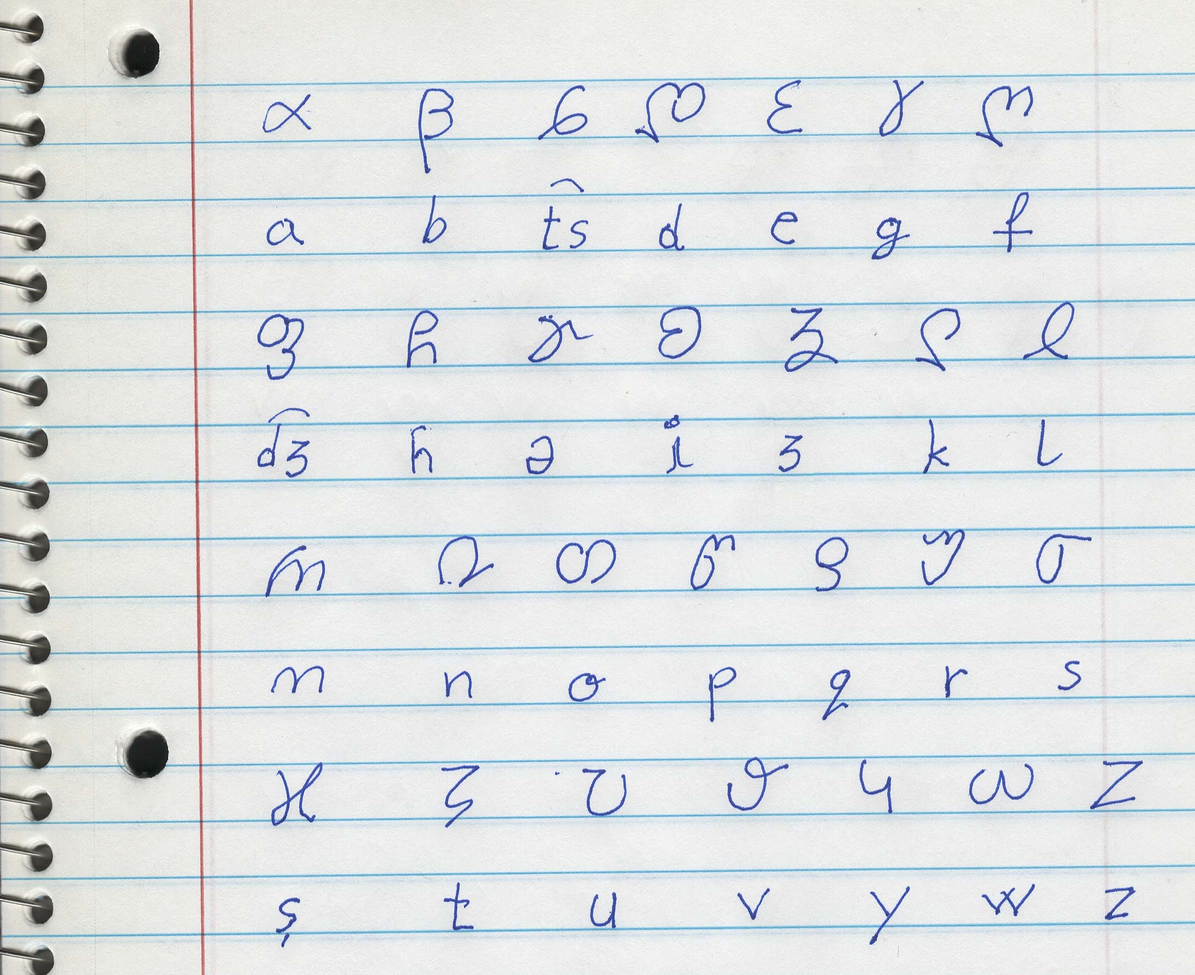
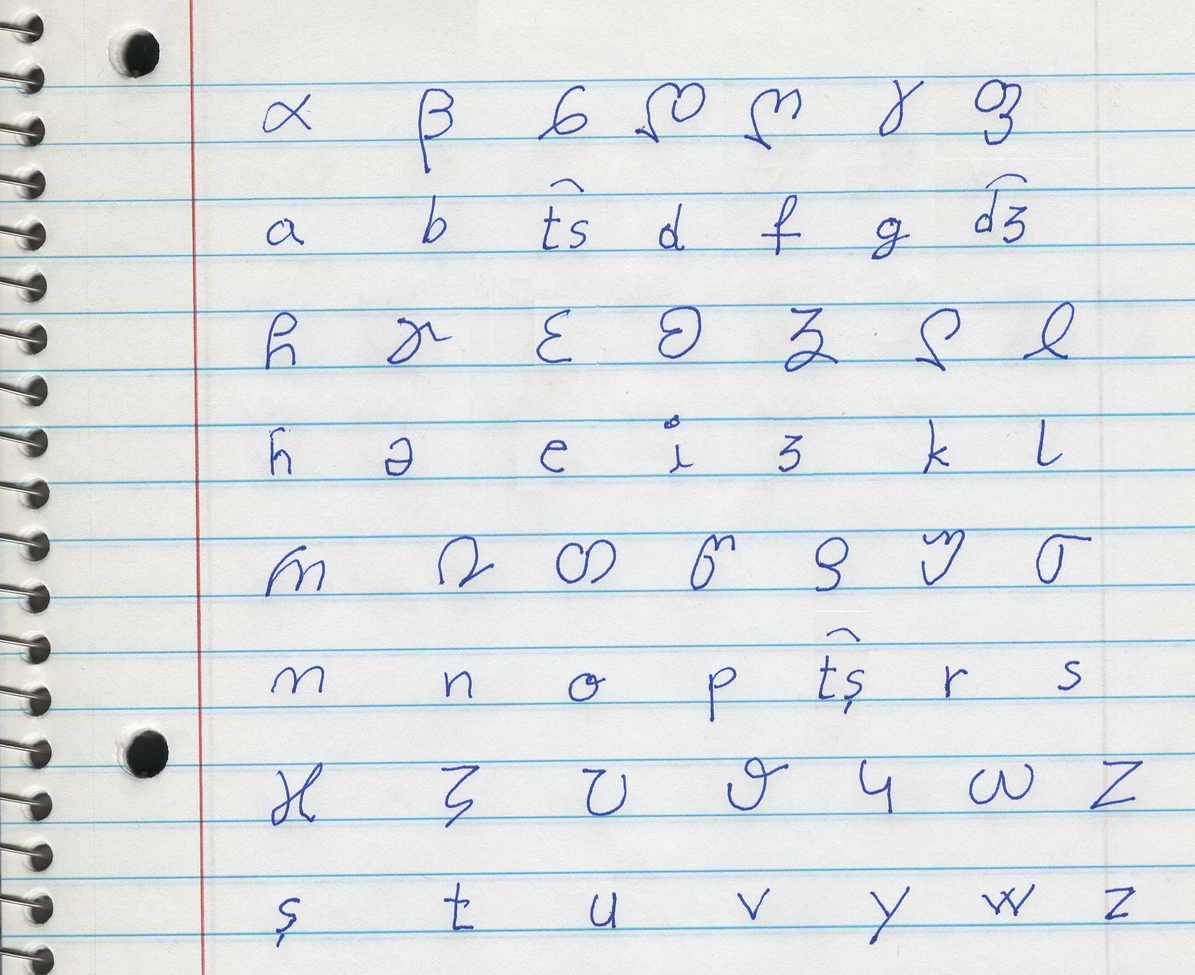
improve alphabet

diff --git a/README.md b/README.md
@@ -47,10 +47,11 @@ Mission of Maj alphabet is to maximize the number of sounds using ISO Latin lett
 
 The alphabet starts with same letters "A, B, C" like any Romance languages but some letters are ordered differently to include the missing letters: hard G = ğ and soft G = ĝ, plust the additional letter ə = ă that is not available in ISO Latin.
 
-
-a | b | c | d | e | f |ğ |ĝ |ɦ |ə |i |j |k |l 
---|---|---|---|---|---|--|--|--|--|--|--|--|--
-m |n  |o  |p  |q  |r  |s |x |t |u |v |y |w |z 
+ 1 | 2 | 3 | 4 | 5 | 6 | 7 | 8 | 9  | 10 | 11 | 12 | 13 | 14   
+---|---|---|---|---|---|---|---|----|----|----|----|----|----
+a  | b | c | d | f | ğ | ĝ | ɦ | ə  | e  | i  | j  | k  | l 
+---|---|---|---|---|---|---|---|----|----|----|----|----|----
+m  | n | o | p | q | r | s | t | u  | v  | w  | x  | y  | z 
 
 
 **Phoneme:**
